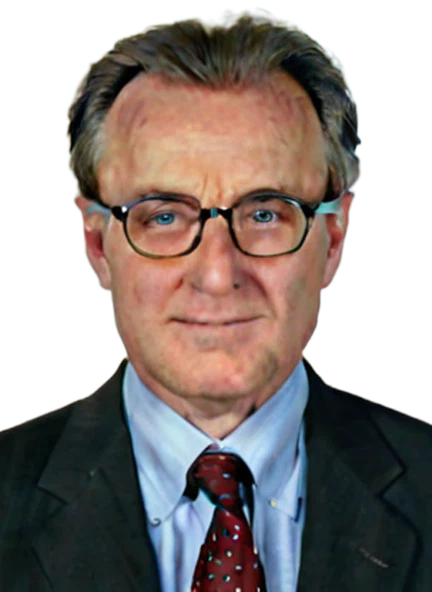
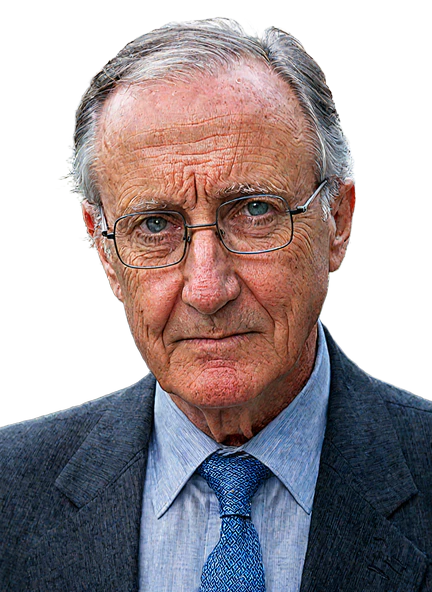
Art: the two spouses' faces; FRA/DEU moods redrawn from their own bust
- FRA_helene_moucron and GBR_julian_marchbanks (V5.2c spouses, #137): neutral
  busts on the text route, described archetypes only; sex follows the first
  name (regional_figure joins the name-sexed kinds; "Julian" classified). The
  sidecar age and hair of Hélène were set by hand so the seeded archetype
  does not echo a real person.
- FRA_moucron worried/weary and DEU_vogler weary were a different man from
  moods 1-3 (the author's likeness sheet). New --remood <id>:<mood> redraws a
  mood by img2img over the person's own neutral bust (not the photograph),
  so the five moods are one man and no closer to the source. The author kept
  the busts' low resemblance as they are ("garder tel quel").

diff --git a/tools/portraits_generate.py b/tools/portraits_generate.py
@@ -113,7 +113,7 @@ FEMALE_PROBABILITY = 0.35
 ## wall's sex came from the real counterpart's photo (B2); executives and the
 ## generated nations' majors have no counterpart, so the name is the only
 ## truth there is.
-NAME_SEXED_KINDS = ("executive", "politician")
+NAME_SEXED_KINDS = ("executive", "politician", "regional_figure")
 
 ## 4a. Region look, keyed off the nation prefix already in the person id --
 ## the single biggest missing variety axis (a Finnish and a Greek minister
@@ -508,6 +508,7 @@ def _load_people():
 
 _bench_ids = set()
 _kinds = {}
+_people_names = []
 
 
 def _banned_pattern():
@@ -725,6 +726,46 @@ def generate_photo(person_id, emotion, seed, text):
     return comfy.fetch(first_meta(PHOTO_IMAGE_NODE_OUT)), comfy.fetch(first_meta(PHOTO_MASK_NODE_OUT))
 
 
+def generate_from_bust(person_id, emotion, seed, text):
+    """One mood re-rendered by img2img over the person's OWN neutral bust --
+    the same plain-node workflow as the photo route, with the bust standing in
+    for the photograph. V5.2a: on the photo route identity comes from the
+    photograph at 0.55 denoise, and two moods of a leader came back as a
+    different man (the author's likeness sheet). Anchoring to the neutral
+    bust keeps all five moods one person without moving the face toward the
+    photograph. The neutral raw is the 832x1216 frame, so the output is too."""
+    workflow = json.loads(comfy._confined(PHOTO_WORKFLOW, TOOLS).read_text(encoding="utf-8"))
+    base = comfy._confined(RAW_DIR / "neutral" / (person_id + ".png"), RAW_DIR)
+    workflow[PHOTO_IMAGE_NODE]["inputs"]["image"] = comfy.upload_image(
+        base.read_bytes(), person_id + "_bust.png")
+    workflow[PHOTO_TEXT_NODE]["inputs"]["text"] = text
+    workflow[PHOTO_SEED_NODE]["inputs"]["seed"] = seed
+    prompt_id = comfy.queue(workflow)
+    out = comfy.outputs(prompt_id, timeout_s=900)
+    for node in (PHOTO_IMAGE_NODE_OUT, PHOTO_MASK_NODE_OUT):
+        if not out.get(node):
+            raise RuntimeError("no output at node %s for %s/%s" % (node, person_id, emotion))
+    return comfy.fetch(out[PHOTO_IMAGE_NODE_OUT][0]), comfy.fetch(out[PHOTO_MASK_NODE_OUT][0])
+
+
+def remood(pairs, seed_add) -> int:
+    """--remood <id>:<emotion> (repeatable) [--seed-add N]: redraw those moods
+    from the person's neutral bust. N lets a rejected redraw try another seed
+    without touching the salt (the neutral and the other moods stay put).
+    Run tools/portraits.gd afterwards to ship the WebP."""
+    for pair in pairs:
+        pid, emotion = pair.split(":")
+        comfy._checked_id(pid)
+        if emotion not in EMOTIONS[1:]:
+            raise RuntimeError("--remood takes a non-neutral mood, got '%s'" % emotion)
+        seed, text, _ = prompt_for(pid, dict(_people_names)[pid], emotion)
+        image, mask = generate_from_bust(pid, emotion, seed + seed_add, text)
+        comfy._confined(RAW_DIR / emotion / (pid + ".png"), RAW_DIR).write_bytes(image)
+        comfy._confined(MASK_DIR / emotion / (pid + ".png"), MASK_DIR).write_bytes(mask)
+        print("remood %s %s (seed %d)" % (pid, emotion, seed + seed_add))
+    return 0
+
+
 def _only_filter(people):
     """--only <person_id> (repeatable): generate a slice, not the wall. This is
     Phase B's own verification shape -- a three-person slice (three nations,
@@ -758,6 +799,12 @@ def main():
     global _traits, _roles
     _traits = load_traits(people)
     _roles = roles()
+
+    if "--remood" in sys.argv:
+        global _people_names
+        _people_names = people
+        add = int(sys.argv[sys.argv.index("--seed-add") + 1]) if "--seed-add" in sys.argv else 0
+        return remood([a for i, a in enumerate(sys.argv[1:], 1) if sys.argv[i - 1] == "--remood"], add)
 
     if "--reseed" in sys.argv:
         return reseed(_only_filter(people), people)
